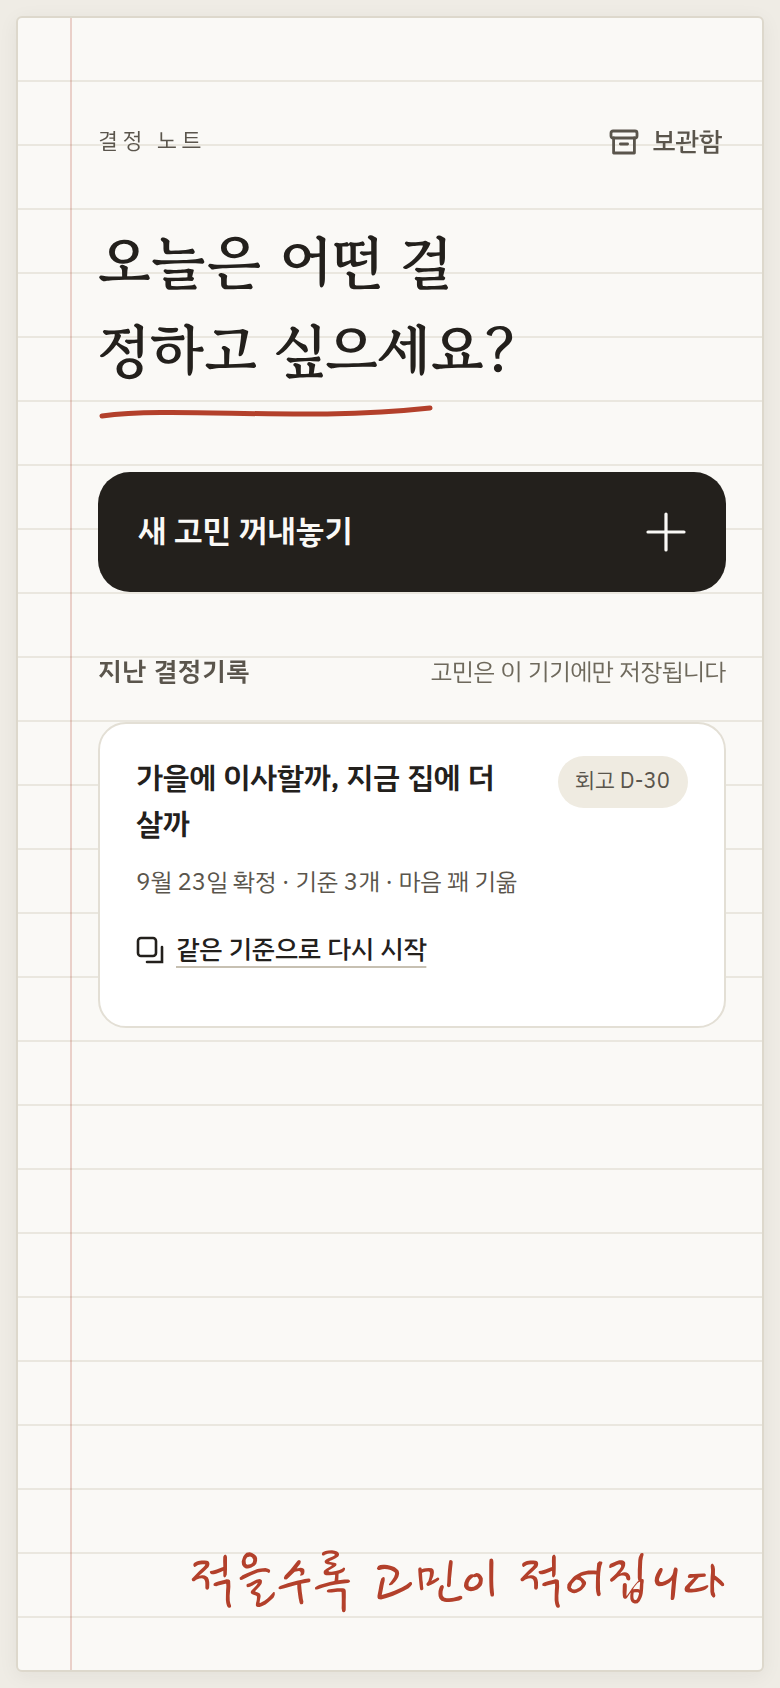
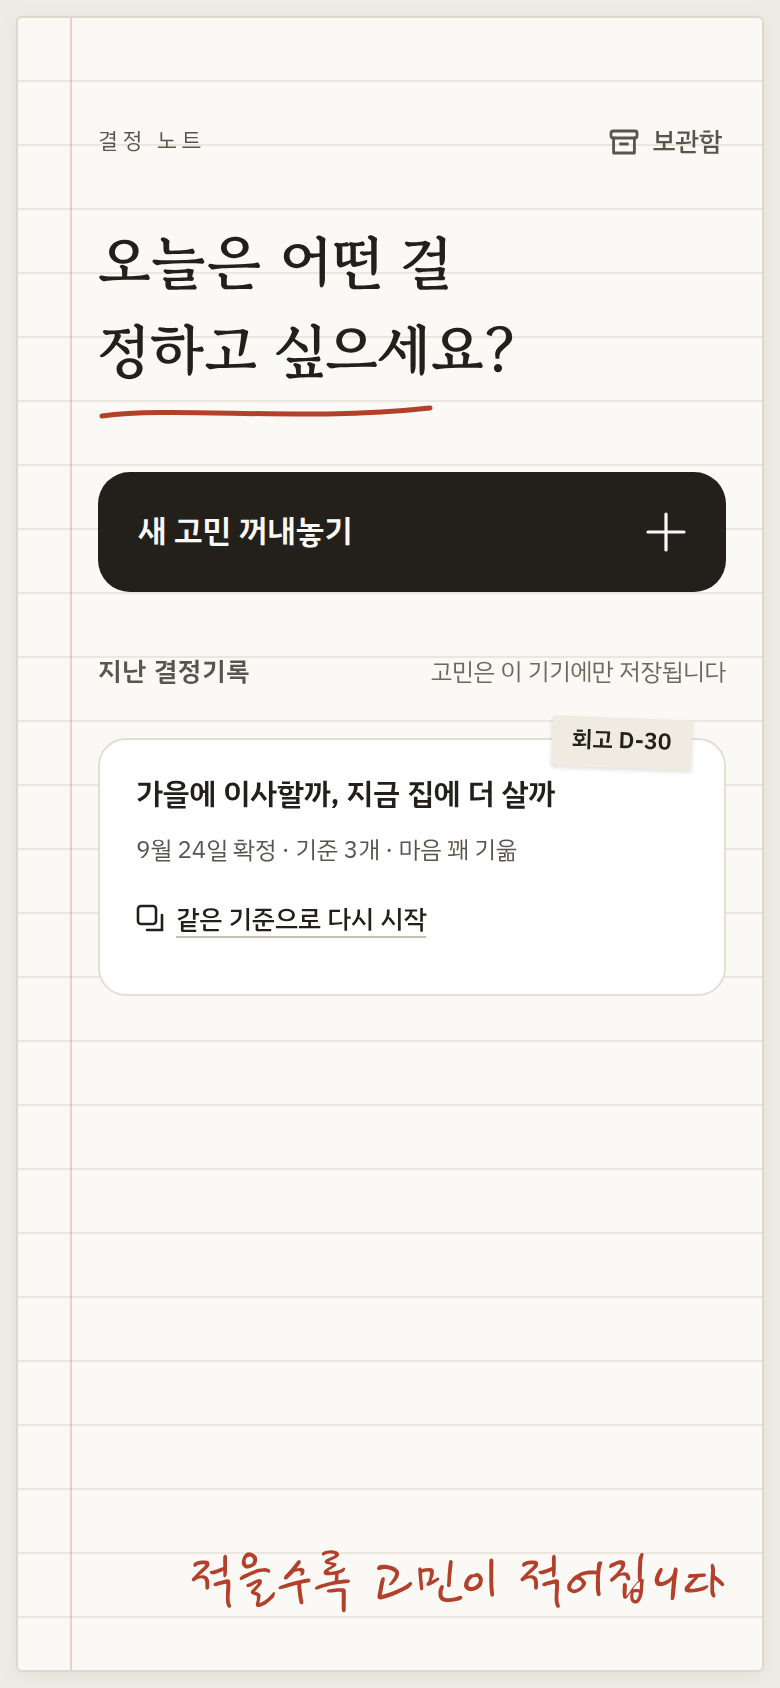
feat(home): 목록 카드의 상태 배지를 포스트잇 쪽지로
알약 배지 대신 카드 위쪽 모서리에 비스듬히 붙인 쪽지로 상태를 보인다.
손이 가야 하는 상태("회고할 때", "진행 중")만 노란 쪽지, 나머지는 종이색.
노랑은 형광펜(--hl, 화면당 1곳)과 역할이 달라 --postit 토큰을 디자인 문서에
먼저 추가했다. 값은 같다.

Claude-Session: https://claude.ai/code/session_01DfCYJNm8fnv5qvTtHT6e4k

Changed region(s): [[0.1538, 0.4313, 0.8923, 0.5853]]

diff --git a/src/screens/Main.tsx b/src/screens/Main.tsx
@@ -97,7 +97,7 @@ export function Main() {
         <span className="meta">{synced ? '다른 기기와 함께 보는 중' : '고민은 이 기기에만 저장됩니다'}</span>
       </div>
 
-      <div className="stack" style={{ marginTop: 14, gap: 12 }}>
+      <div className="stack" style={{ marginTop: 22, gap: 22 }}>
         {loading && summaries.length === 0 ? null : summaries.length === 0 ? (
           <p className="empty m-settle" style={delay(0, 'm-settle', 540)}>
             첫 장은 비어 있어요. 지금 걸리는 걸 한 줄로 적어보세요.
@@ -143,13 +143,16 @@ function DecisionCard({
   const { badge, badgeTone } = statusBadge(summary)
 
   return (
-    <div className="card m-settle" style={delay(index, 'm-settle', 540)}>
+    <div className="card m-settle" style={{ position: 'relative', ...delay(index, 'm-settle', 540) }}>
       <Link to={resumePath(summary)} style={{ color: 'inherit', display: 'block' }}>
-        <div style={{ display: 'flex', alignItems: 'flex-start', justifyContent: 'space-between', gap: 10 }}>
-          <span style={{ flex: 1, minWidth: 0, fontSize: 15, fontWeight: 600, lineHeight: 1.55, wordBreak: 'keep-all', overflowWrap: 'anywhere' }}>
-            {summary.question.trim() === '' ? '제목 없는 고민' : summary.question}
-          </span>
-          <span className={`chip chip--sm${badgeTone === 'accent' ? ' chip--pass' : ''}`}>{badge}</span>
+        <span
+          className={`postit${badgeTone === 'accent' ? ' postit--call' : ''}`}
+          style={{ transform: `rotate(${index % 2 === 0 ? 2 : -1.5}deg)` }}
+        >
+          {badge}
+        </span>
+        <div style={{ fontSize: 15, fontWeight: 600, lineHeight: 1.55, wordBreak: 'keep-all', overflowWrap: 'anywhere' }}>
+          {summary.question.trim() === '' ? '제목 없는 고민' : summary.question}
         </div>
         <div style={{ marginTop: 7, fontSize: 12, color: 'var(--soft)' }}>{subtitle(summary)}</div>
       </Link>

diff --git a/src/components/ui.css b/src/components/ui.css
@@ -186,6 +186,24 @@
   font-weight: 400;
 }
 
+/* 홈 목록의 상태 쪽지 — 카드 위쪽 모서리에 붙인 포스트잇 (디자인 시스템 §5) */
+.postit {
+  position: absolute;
+  right: 16px;
+  top: -11px;
+  padding: 4px 10px 5px;
+  font-size: 11.5px;
+  font-weight: 600;
+  line-height: 1.4;
+  white-space: nowrap;
+  color: var(--ink);
+  background: var(--chip-neutral);
+  box-shadow: 0 1px 2px rgba(35, 32, 28, 0.14);
+}
+.postit--call {
+  background: var(--postit);
+}
+
 /* ── 버튼 ─────────────────────────────────────────────── */
 
 .btn {

diff --git a/src/styles/tokens.css b/src/styles/tokens.css
@@ -17,6 +17,7 @@
   --pen-hover: #8e3120;
   --accent: #2f6a5e;    /* 확신도·만족도·적합도 앞선 쪽 — 단일 강조색 */
   --hl: #f2d98d;        /* 형광펜, 화면당 최대 1곳 */
+  --postit: #f2d98d;    /* 포스트잇 — --hl과 값만 같고 역할이 다르다 (홈 상태 쪽지) */
 
   /* 선택지 고유색 (디자인 시스템 §1) — ①②③④⑤가 각자 갖는 색.
      순위가 바뀔 때 무엇이 무엇을 제쳤는지 눈으로 따라가라고 있는 것이다.

diff --git a/docs/design-system.md b/docs/design-system.md
@@ -28,6 +28,7 @@ prototype: https://claude.ai/artifact/HzEGb1Ki3S3g34THM5x52D
   --pen-hover: #8E3120;
   --accent:  #2F6A5E;  /* 확신도·만족도·적합도 앞선 쪽 — 단일 강조색으로 통일 */
   --hl:      #F2D98D;  /* 형광펜, 화면당 최대 1곳 */
+  --postit:  #F2D98D;  /* 포스트잇 (2026-09-24) — 값은 --hl과 같고 역할만 다르다. 홈 목록의 '손이 가야 하는' 상태 쪽지 */
 
   /* 선택지 고유색 (2026-09-20 추가) — ①②③④⑤가 각자 갖는 색.
      비교 화면에서 순위가 바뀔 때 "무엇이 무엇을 제쳤는지" 눈으로 따라가게 한다. */
@@ -48,6 +49,7 @@ prototype: https://claude.ai/artifact/HzEGb1Ki3S3g34THM5x52D
 | `--pen` | 밑줄·체크·동그라미·취소선·도장·손글씨 메모, ① 선택지 색(`--alt-1`) | 상태 배지·상태 글자("손해", "바꿈"), 버튼 배경, 링크, 포커스 테두리 |
 | `--accent` | 확신도 버튼, 만족도 버튼, 결과에서 앞선 선택지 막대·아이콘, "통과" 배지 | 링크, 제목 |
 | `--hl` | 결과 화면의 결론 문장 1곳 | 여러 곳 동시에 |
+| `--postit` | 홈 목록 카드의 상태 쪽지 중 손이 가야 하는 것("회고할 때", "진행 중") | 홈 밖, 형광펜 대신 |
 
 - **확신도·만족도는 전부 `--accent` 하나로 통일한다.** 별도 색을 만들지 않는다.
 - **"앞선 선택지"는 2026-09-20부터 예외다.** 선택지마다 `--alt-1`~`--alt-5`를 갖고, 앞선 쪽은 그 색을 그대로, 나머지는 `--alt-dim`(55%)으로 흐리게 칠한다. 앞선 쪽이 눈에 띄어야 한다는 원래 의도는 그대로다 — 방법만 "혼자 색이 있음"에서 "혼자 진함"으로 바뀐다.
@@ -180,6 +182,7 @@ prototype: https://claude.ai/artifact/HzEGb1Ki3S3g34THM5x52D
 | 하단 버튼 영역 | 다음으로 가는 버튼은 스크롤 밖 종이 아래쪽(`Paper`의 `footer`)에 붙는다. 위로 20px 종이색으로 번져 "아래에 더 있다"를 선 없이 알린다. 내용이 길어도 버튼이 잘리지 않는다 |
 | 평가 점수 | 1~5 숫자 칸. 칸마다 말을 붙이지 않고 양 끝에만 **bad ↔ good** (`--soft`, 12px) |
 | 민감도 눈금 ('자세히') | 손잡이 없는 눈금이다 — 만질 수 있는 슬라이더처럼 보이면 안 된다. `--ink` 눈금에 "지금", `--pen` 눈금에 손글씨 "여기부터 ①". 직접 움직이는 건 '직접 조정해보기'의 몫 |
+| 상태 쪽지 (홈) | 알약 배지 대신 카드 위쪽 모서리에 비스듬히 붙인 포스트잇. 손이 가야 하는 상태("회고할 때", "진행 중")는 `--postit`, 나머지("회고 D-30", "확정됨", "돌아보니 …")는 `--chip-neutral` 종이. 카드마다 ±2°로 번갈아 기울인다. 다른 화면의 배지("통과", "느낌")는 그대로 알약 |
 | 목록 카드 | 제목은 띄어쓰기에서만 끊는다(`word-break: keep-all`). 척도 값은 숫자 대신 말로("마음 꽤 기욺", "돌아보니 잘한 선택") |
 | 앱 아이콘 | 확정 화면의 도장 그대로 — 손글씨 `결정`을 세로 2단으로 쌓고 세로로 긴 타원(23.5×33)을 두른다. 격자는 108×108, 모티프는 안전 영역(중심에서 반지름 36) 안. 웹 파비콘은 원고지 바탕까지, **안드로이드는 단색 종이 + 모티프**(앞면만 흔드는 런처가 있어 종이 무늬를 앞면에 넣지 않는다) |
 | 스플래시 | 책상색 바탕 가운데 도장 하나. `capacitor.config.ts`의 `backgroundColor`와 같은 색이라 이음매가 없다 |
@@ -241,6 +244,7 @@ prototype: https://claude.ai/artifact/HzEGb1Ki3S3g34THM5x52D
 | 2026-09-20 | 매트릭스 화면(내가 매긴 표) 추가 — 만년필 필기 모션, 손글씨 서브셋에 숫자 추가, 소리 토큰 신설 |
 | 2026-09-20 | 매트릭스를 결과 **앞으로** 옮기고 적합도 줄 제거. '왜 이런 결과인지'의 기준별 막대는 중복이라 삭제. 순서 바꾸기를 포인터 이벤트로 교체(터치에서 안 되던 것) |
 | 2026-09-21 | 앱 아이콘·스플래시를 `결정` 도장으로. Capacitor 기본 로고를 걷어내고 `scripts/icon-source.mjs` 한 곳에서 모든 크기를 뽑도록 함 |
+| 2026-09-24 | 홈 목록 배지를 포스트잇 쪽지로. `--postit` 토큰 추가(값은 `--hl`과 같음). '펜 자국'·'종이 한 장' 시안은 채택하지 않음 |
 | 2026-09-23 | UI 검토 반영: '중요한 순서' 단계를 없애고 기준 줄을 길게 눌러 순서를 바꾸게 함(7→6단계). 하단 버튼 영역 신설. 빨강을 사용자의 손자국으로 되돌림(포커스·링크·상태 글자에서 제거). 보관함을 홈 우상단에. '자세히'의 가짜 슬라이더를 눈금으로. 평가 점수 양 끝 bad/good. 상단 "저장됨" 제거 |
 | 2026-09-20 | 블록마다 붙던 작은 표제부 6곳 제거 — 라벨 자리에 문장을 넣고(A) 카드 테두리를 걷어냄(C). §9에 선택지 고유색 예외 추가, 순위 변동 모션 신설 |
 
